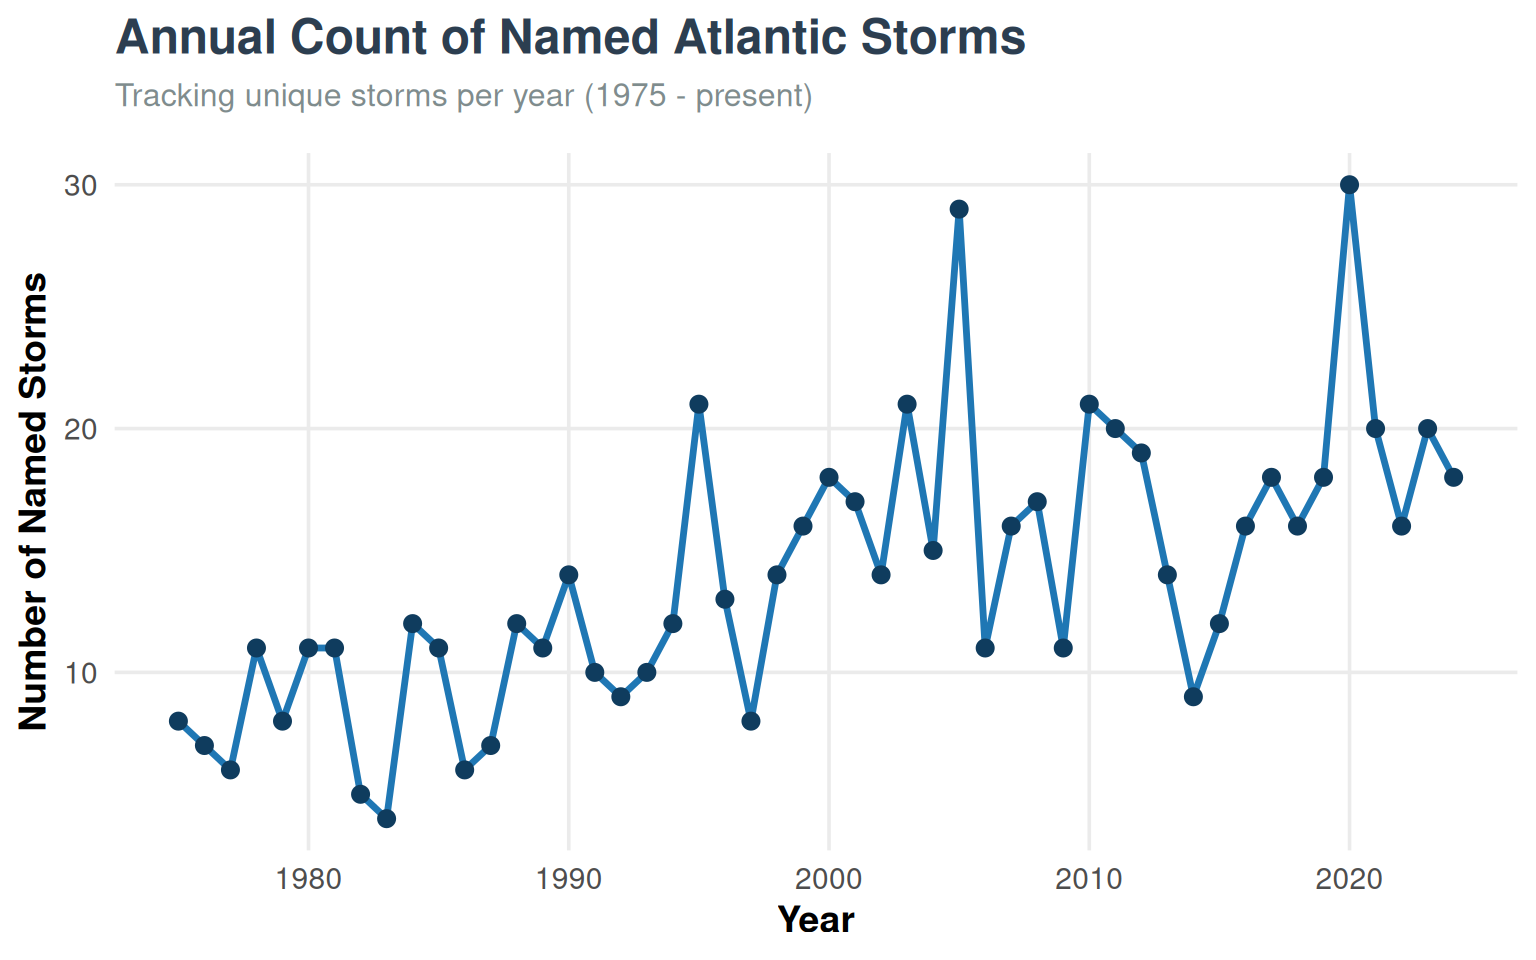
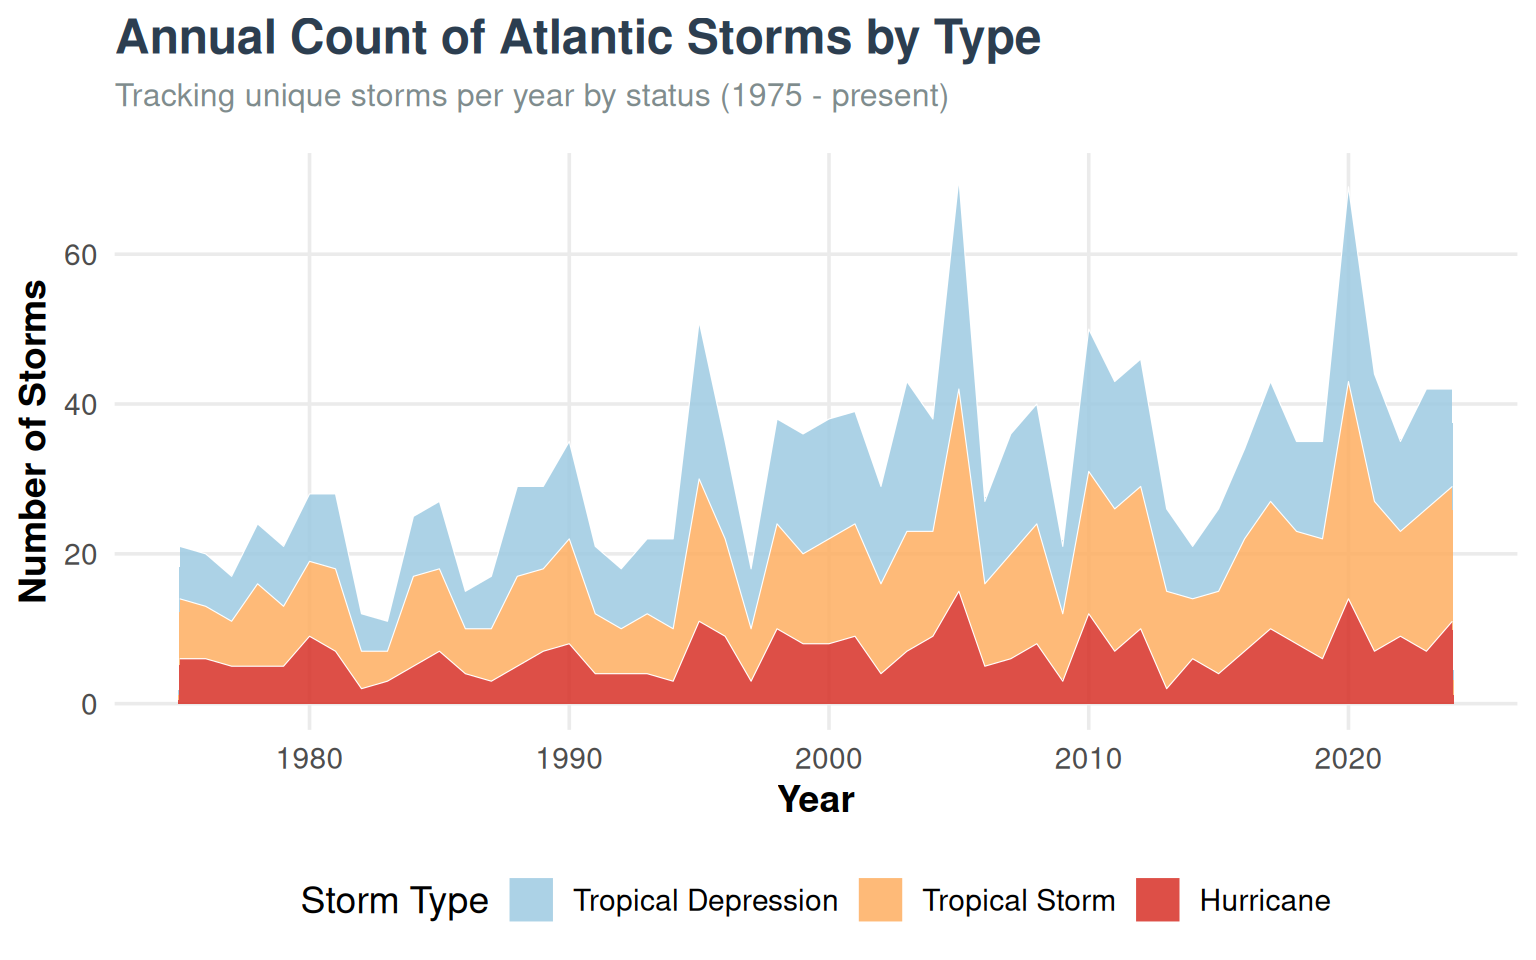
Update storm analysis to show stacked area chart of storm types

diff --git a/analysis.html b/analysis.html
@@ -73,9 +73,9 @@ ul.task-list li input[type="checkbox"] {
 </header>
 
 
-<section id="named-storms-per-year" class="level2">
-<h2 class="anchored" data-anchor-id="named-storms-per-year">Named Storms Per Year</h2>
-<p>This plot shows the total number of unique named storms recorded each year in the NOAA Atlantic hurricane database (<code>dplyr::storms</code> dataset).</p>
+<section id="storms-per-year-by-type" class="level2">
+<h2 class="anchored" data-anchor-id="storms-per-year-by-type">Storms Per Year by Type</h2>
+<p>This plot shows the annual count of tropical depressions, tropical storms, and hurricanes recorded in the NOAA Atlantic hurricane database (<code>dplyr::storms</code> dataset).</p>
 <div class="cell">
 <div class="cell-output-display">
 <div>